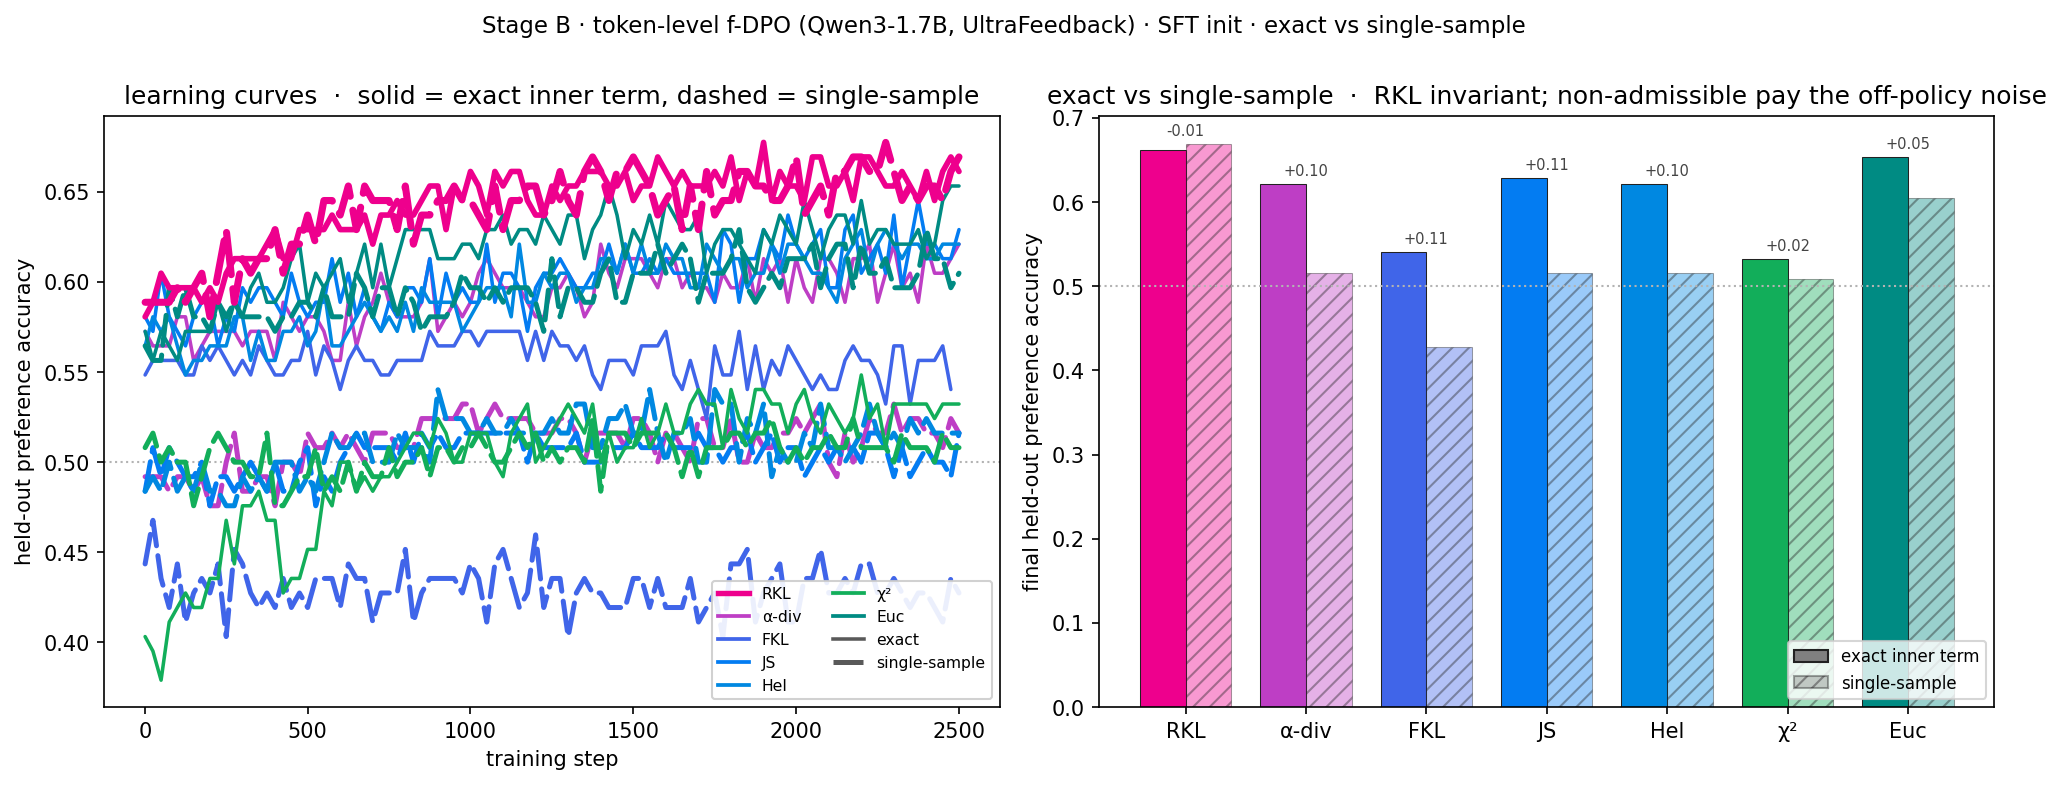
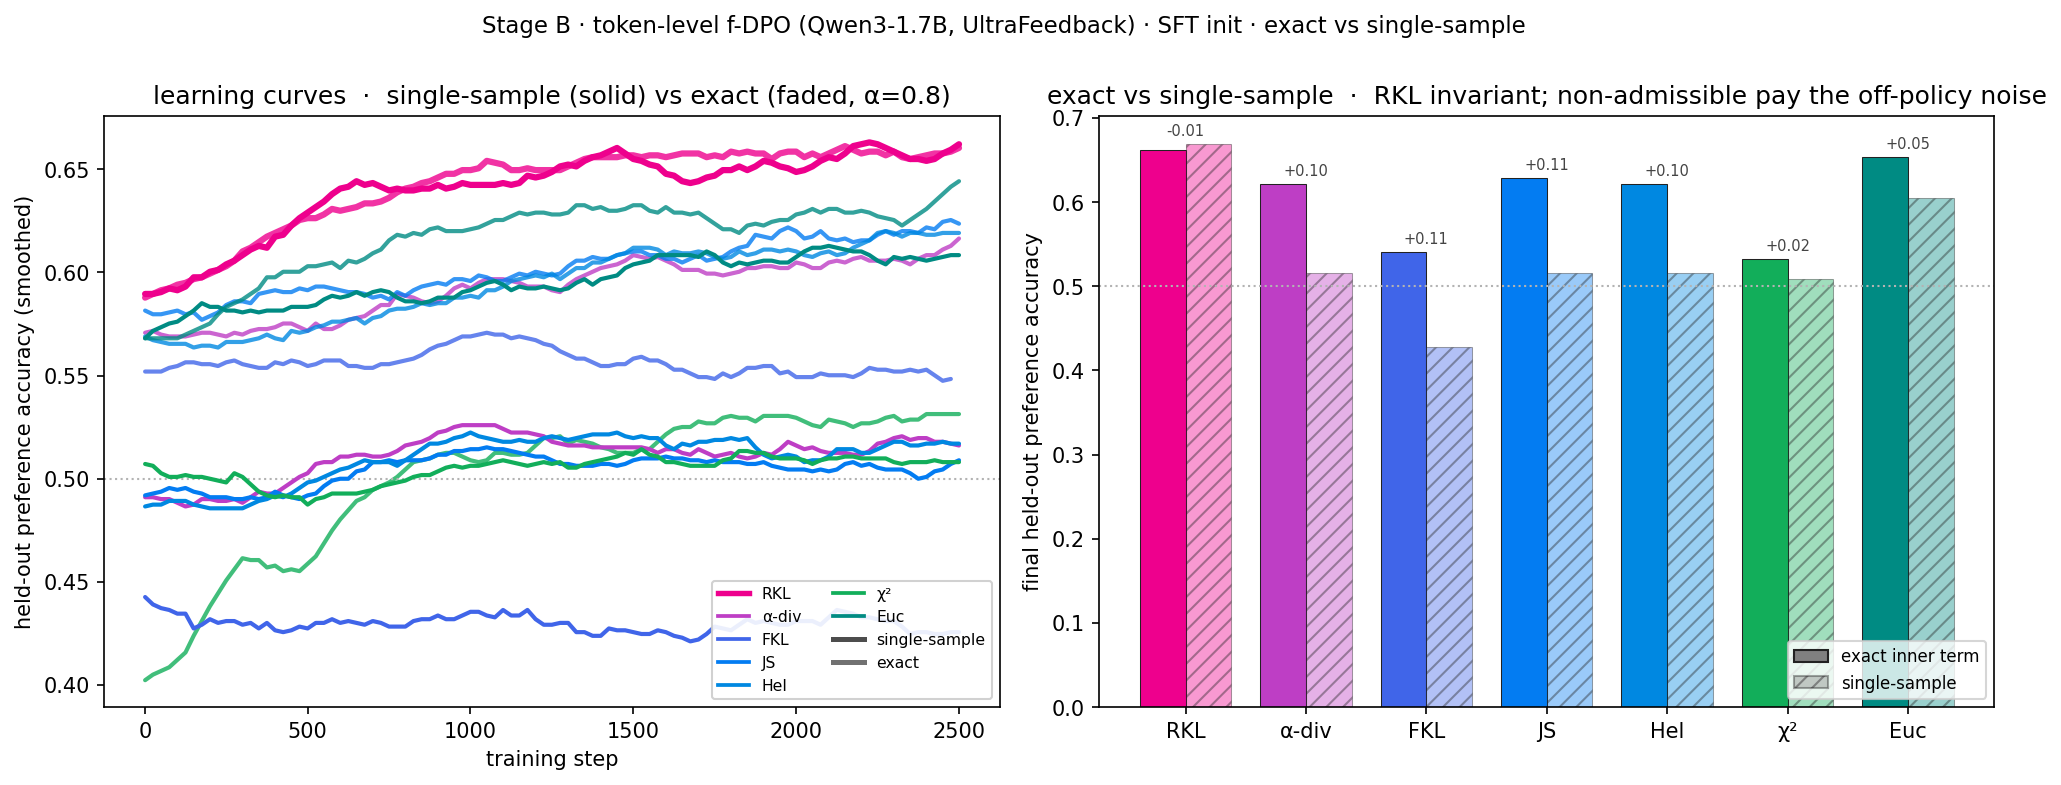
fig_stage_b: smooth learning curves + opacity (drop dashes)
Left panel was too noisy with 14 lines. Centered-MA smoothing (_smooth, w=9, no lag)
de-jitters the eval-acc curves; both arms now solid, distinguished by opacity
(single-sample crisp alpha=1.0 as reference, exact faded alpha=0.8) instead of dashes.

diff --git a/llm/fig_stage_b.py b/llm/fig_stage_b.py
@@ -43,6 +43,14 @@ def _final(hist, key, default=np.nan):
     return hist[-1].get(key, default) if hist else default
 
 
+def _smooth(y, w=9):
+    """Centered moving average (edge-padded, no lag) to de-noise the eval-acc curves."""
+    y = np.asarray(y, dtype=float)
+    if len(y) < w:
+        return y
+    return np.convolve(np.pad(y, w // 2, mode="edge"), np.ones(w) / w, mode="valid")[:len(y)]
+
+
 def main():
     ap = argparse.ArgumentParser()
     ap.add_argument("--dir", default="results")
@@ -62,22 +70,22 @@ def main():
     fig, (axL, axR) = plt.subplots(1, 2, figsize=(13.5, 5.2))
 
     # ── Left: eval-accuracy learning curves. solid = exact, dashed = single-sample ──
+    # both arms solid + smoothed; distinguished by opacity (single-sample = crisp reference, exact = faded)
     for k in order:
-        for inner, ls, lwb in (("exact", "-", 1.7), ("sample", SAMPLE_LS, 2.4)):   # sample dashed = bolder
+        for inner, alpha, z in (("exact", 0.8, 2), ("sample", 1.0, 4)):
             h = runs[k].get(inner)
             if not h:
                 continue
-            axL.plot([r["step"] for r in h], [r.get("eval_acc", np.nan) for r in h],
-                     ls=ls, color=COLORS[k], lw=lwb + (1.0 if k == "kl" else 0.0),
-                     solid_capstyle="round", dash_capstyle="round",
-                     zorder=9 if k == "kl" else 3)
+            axL.plot([r["step"] for r in h], _smooth([r.get("eval_acc", np.nan) for r in h]),
+                     color=COLORS[k], lw=3.0 if k == "kl" else 2.0, alpha=alpha,
+                     solid_capstyle="round", zorder=(z + 6) if k == "kl" else z)
     axL.axhline(0.5, color="0.7", ls=":", lw=1)
-    axL.set_xlabel("training step"); axL.set_ylabel("held-out preference accuracy")
+    axL.set_xlabel("training step"); axL.set_ylabel("held-out preference accuracy (smoothed)")
     handles = [Line2D([0], [0], color=COLORS[k], lw=2.6 if k == "kl" else 1.8, label=SHORT[k]) for k in order]
     if paired:
-        axL.set_title("learning curves  ·  solid = exact inner term, dashed = single-sample")
-        handles += [Line2D([0], [0], color="0.35", ls="-", lw=1.7, label="exact"),
-                    Line2D([0], [0], color="0.35", ls=SAMPLE_LS, lw=2.4, label="single-sample")]
+        axL.set_title("learning curves  ·  single-sample (solid) vs exact (faded, α=0.8)")
+        handles += [Line2D([0], [0], color="0.3", lw=2.4, alpha=1.0, label="single-sample"),
+                    Line2D([0], [0], color="0.3", lw=2.4, alpha=0.8, label="exact")]
     else:
         axL.set_title(f"learning curves  ·  {arm} inner term  (only RKL rises; others stay ≈ 0.5)")
     axL.legend(handles=handles, ncol=2, fontsize=7.5, framealpha=0.9)
